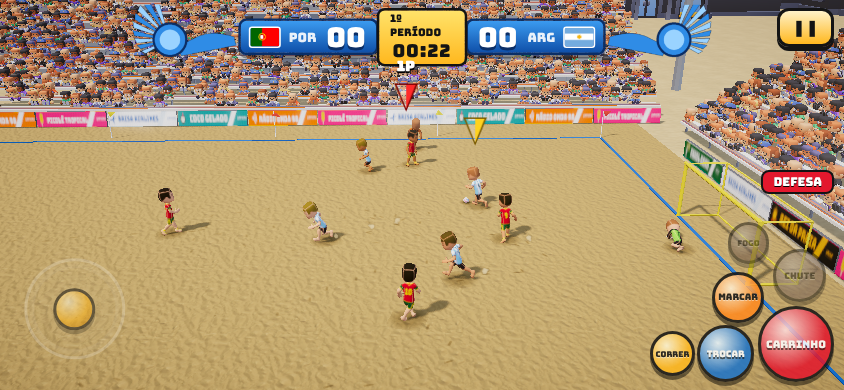
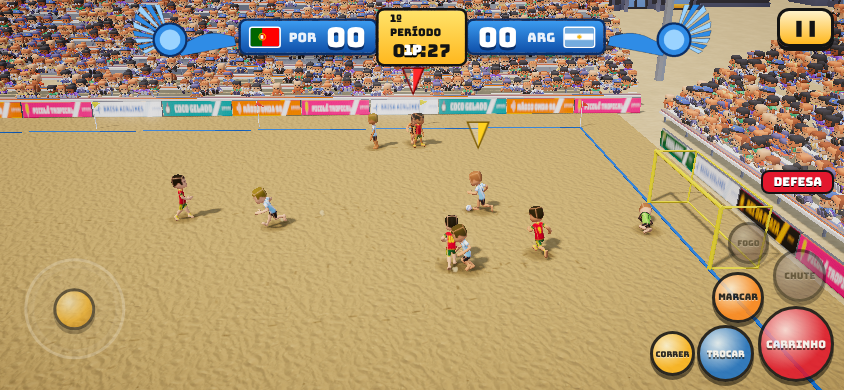
Passe no pé (estilo PES/FIFA)
- Passe rasteiro e lençol miram o pé do recebedor; a bola corrige a rota durante o trajeto
- Recebedor para e espera a bola desde o aperto do botão (não vai buscar)
- Só antecipa o passe para quem está correndo na tabela
- QA: recebedor andou 0,00 m no passe e no lençol

Claude-Session: https://claude.ai/code/session_01SZRMGLNJbngvwk127EqV8r

diff --git a/src/match/Match.ts b/src/match/Match.ts
@@ -322,18 +322,16 @@ export class Match {
     if (inSet) { p.vel.set(0, 0, 0); return; }
     const canMove = p.stun <= 0 && p.sliding <= 0 && !(p.kick && !p.kick.done) && !this.ball.held;
     let sprint = input.held(dev, 'sprint');
-    // recepção assistida: direcional solto e passe vindo para ele → vai ao encontro da bola
-    if (this.passTo === p && !hasBall && mv.lengthSq() < 0.04 && !this.ball.owner) {
-      const meet = this.ball.predict(0.35).sub(p.pos).setY(0);
-      if (meet.length() > 0.5) mv.copy(meet.normalize().multiplyScalar(0.85));
-    }
+    // recepção estilo PES/FIFA: direcional solto e passe vindo para ele → para, vira para a bola e espera no pé
+    const waiting = this.passTo === p && !hasBall && mv.lengthSq() < 0.04 && (!this.ball.owner || this.ball.owner.team === tm);
+    if (waiting) { p.vel.multiplyScalar(Math.exp(-10 * dt)); p.faceTo(this.ball.pos.clone().sub(p.pos).setY(0), dt, 10); }
     // MARCAR (toque): corre sozinho atrás da bola/adversário enquanto o botão estiver pressionado
     if (input.isDown('TouchPress') && dev === 'kb' && !hasBall && mv.lengthSq() < 0.04) {
       mv.copy(this.pressDir(p)); sprint = true;
       const c = this.ball.owner;
       if (c && c.team !== tm && c.pos.distanceTo(p.pos) < 1.15 && p.tackleCd <= 0) this.doTackle(p, false); // bote
     }
-    if (canMove) {
+    if (canMove && !waiting) {
       const max = p.maxSpeed(sprint);
       const want = mv.clone().multiplyScalar(max);
       const acc = hasBall ? 16 : 20;
@@ -425,6 +423,27 @@ export class Match {
     p.runTarget.set(THREE.MathUtils.clamp(recv.pos.x + d * 6, -FIELD.HL + 2, FIELD.HL - 2), 0, THREE.MathUtils.clamp(recv.pos.z + side * 4, -FIELD.HW + 1.5, FIELD.HW - 1.5));
     p.runT = 1.8;
   }
+  /**
+   * Passe "no pé": enquanto o passe do time está a caminho (ninguém tocou), a bola corrige a direção para o
+   * pé do recebedor — se ele se mexer, ela acompanha — e não morre no meio do caminho por causa da areia.
+   */
+  private homePass(dt: number) {
+    const r = this.passTo, b = this.ball;
+    if (!r || b.owner || b.held || b.inGoal || !r.onField || b.lastTouch?.team !== r.team) return;
+    const to = r.pos.clone().sub(b.pos).setY(0);
+    const dist = to.length();
+    if (dist < 0.3) return;
+    to.divideScalar(dist);
+    const hv = new THREE.Vector3(b.vel.x, 0, b.vel.z);
+    let hs = hv.length();
+    if (hs < 0.05) return;
+    hv.divideScalar(hs);
+    if (hv.dot(to) < -0.2) return; // já passou do recebedor
+    const k = 1 - Math.exp(-(b.airborne ? 2.5 : 7) * dt);
+    hv.lerp(to, k).normalize();
+    if (!b.airborne) hs = Math.max(hs, Math.min(5, 1.5 + dist * 1.2)); // areia não segura o passe antes de chegar
+    b.vel.x = hv.x * hs; b.vel.z = hv.z * hs;
+  }
   /** jogador que deve receber o passe em andamento (recepção assistida) */
   passTo: Player | null = null;
   /** bola aérea dominável agora pelo jogador humano (o celular pisca o botão CHUTE) */
@@ -437,6 +456,8 @@ export class Match {
     const hasIt = b.owner === p || this.sp?.taker === p || this.nearLooseBall(p);
     if (!hasIt || (p.kick && !p.kick.done)) return;
     const best = target ?? this.pickPassTarget(p, dir, lob);
+    // o recebedor já para e espera no momento em que o botão é apertado (não sai correndo durante o preparo do passe)
+    if (best && !best.isGK) { this.passTo = best; this.passT = 3.5; if (best.runT <= 0) best.vel.set(0, 0, 0); }
     const kind: KickKind = p.isGK && b.held ? 'gk_throw' : this.sp?.kind === 'throw_in' ? 'throw_in' : lob ? 'pass_lob' : 'pass_short';
     this.queueKick(p, kind, 0.5, null, best);
   }
@@ -565,7 +586,7 @@ export class Match {
       default: contact = foot;
     }
     const aerial = ['header', 'diving_header', 'bicycle_kick', 'scissor_kick', 'volley', 'chest_control'].includes(k.kind);
-    if (!owned && !reachable(aerial ? contact : p.pos.clone().setY(BALL_R).addScaledVector(p.forward, 0.5), aerial ? 1.7 : 1.4)) return; // furou
+    if (!owned && !reachable(aerial ? contact : p.pos.clone().setY(BALL_R).addScaledVector(p.forward, 0.5), aerial ? 1.7 : 1.4)) { if (this.passTo?.team === p.team) this.passTo = null; return; } // furou
     if (this.state === 'setpiece' || this.state === 'kickoff') this.resumePlay();
     b.owner = null; b.held = false;
     if (aerial) b.pos.lerp(contact, 0.6);
@@ -587,8 +608,9 @@ export class Match {
         if (k.kind === 'pass_short') {
           // areia segura muito a bola: a velocidade de saída é calculada para ela chegar viva (~5 m/s) no recebedor,
           // e o alvo é onde ele vai estar quando a bola chegar
-          let sp = rollSpeedFor(d, 5);
-          if (target) { const tArr = rollTime(sp, d); tp = target.pos.clone().addScaledVector(target.vel, Math.min(1.2, tArr * 0.8)); sp = rollSpeedFor(tp.distanceTo(b.pos), 5); }
+          // no pé: mira a posição do recebedor (ele espera a bola); só antecipa quem está correndo na tabela
+          let sp = rollSpeedFor(d, 6.5);
+          if (target && target.runT > 0) { const tArr = rollTime(sp, d); tp = target.pos.clone().addScaledVector(target.vel, Math.min(1.0, tArr * 0.8)); sp = rollSpeedFor(tp.distanceTo(b.pos), 6.5); }
           v = tp.sub(b.pos).setY(0).normalize().multiplyScalar(Math.min(sp, 24)); v.y = 0.6;
           sfx = 'kick_soft';
           if (target) { this.passTo = target; this.passT = 3; }
@@ -604,7 +626,7 @@ export class Match {
         break;
       }
       case 'pass_lob': case 'long_throw': {
-        const tp = target ? target.pos.clone().addScaledVector(target.vel, 0.9).addScaledVector(new THREE.Vector3(tm.dir, 0, 0), 1.2) : b.pos.clone().addScaledVector(p.forward, 14);
+        const tp = target ? (target.runT > 0 ? target.pos.clone().addScaledVector(target.vel, 0.9) : target.pos.clone()) : b.pos.clone().addScaledVector(p.forward, 14);
         const d = tp.distanceTo(b.pos);
         tp.y = k.kind === 'long_throw' ? 1.0 : 0.9;
         v = ballistic(b.pos, tp, 0.8 + d * 0.05);
@@ -781,6 +803,7 @@ export class Match {
     this.mini?.update(dt);
 
     if (this.passT > 0) { this.passT -= dt; if (this.passT <= 0) this.passTo = null; }
+    if (st === 'play') this.homePass(dt);
     if (st === 'play') this.autoSwitch(dt);
     // controle humano + IA
     const live = st === 'play' || st === 'kickoff' || st === 'setpiece';

diff --git a/src/match/AI.ts b/src/match/AI.ts
@@ -122,7 +122,7 @@ export function teamAI(m: Match, tm: Team, dt: number) {
       continue;
     }
     if (owner === p) { carrierAI(m, p, dt, st); continue; }
-    if (p === chaser && (!owner || owner.team !== tm)) {
+    if (p === chaser && (!owner || owner.team !== tm) && !(!owner && m.passTo && m.passTo.team === tm)) { // passe do time a caminho: ninguém corre atrás
       // pressão / disputa de bola
       const target = owner ? owner.pos.clone().addScaledVector(owner.vel, 0.3) : b.predict(0.25).setY(0);
       moveTo(p, target, dt, true);
@@ -137,8 +137,10 @@ export function teamAI(m: Match, tm: Team, dt: number) {
       if (!owner && b.airborne && b.lastTouch?.team === tm) tryAerial(m, p, st);
       continue;
     }
-    // recebendo passe: vai ao encontro da bola
-    if (!owner && b.lastTouch?.team === tm && b.speed > 2) {
+    // recebedor do passe: espera a bola no pé, de frente para ela (a bola é que vem até ele)
+    if (p === m.passTo && (!owner || owner.team === tm) && p.runT <= 0) { moveTo(p, p.pos, dt, false, b.pos.clone().sub(p.pos)); p.vel.multiplyScalar(0.85); tryAerial(m, p, st); continue; }
+    // outro companheiro perto de uma bola do time: vai ao encontro dela
+    if (!owner && b.lastTouch?.team === tm && b.speed > 2 && m.passTo !== p) {
       const tt = Math.max(0.1, Math.min(1.5, p.pos.distanceTo(b.pos) / Math.max(4, b.speed)));
       const pr = b.predict(tt);
       if (pr.distanceTo(p.pos) < 7) { moveTo(p, pr.setY(0), dt, true); tryAerial(m, p, st); continue; }

diff --git a/docs/QA.md b/docs/QA.md
@@ -1,6 +1,6 @@
 # QA ponta a ponta
 
-Executado em 2026-11-26 02:00 UTC com `node scripts/qa/run.cjs` (Chromium headless, build de produção).
+Executado em 2026-11-26 12:27 UTC com `node scripts/qa/run.cjs` (Chromium headless, build de produção).
 
 **19/19 suítes OK.** O monitor de invariantes roda a cada quadro em todas as suítes (bola/jogadores com posição válida e dentro do mundo,
 bola perto do dono, controle duplicado, time humano sem jogador, estados presos, bola morta sem ninguém ir buscar).
@@ -9,11 +9,11 @@ bola perto do dono, controle duplicado, time humano sem jogador, estados presos,
 |---|---|---|
 | menus | ✔ OK | 246s |
 | options | ✔ OK | 45s |
-| fullmatch | ✔ OK | 147s |
+| fullmatch | ✔ OK | 141s |
 | arenas | ✔ OK | 132s |
 | human | ✔ OK | 166s |
 | twoplayers | ✔ OK | 54s |
-| setpieces | ✔ OK | 68s |
+| setpieces | ✔ OK | 61s |
 | fouls | ✔ OK | 60s |
 | pausemenu | ✔ OK | 37s |
 | cup | ✔ OK | 164s |
@@ -24,8 +24,8 @@ bola perto do dono, controle duplicado, time humano sem jogador, estados presos,
 | memory | ✔ OK | 108s |
 | career | ✔ OK | 161s |
 | mobile | ✔ OK | 34s |
-| iphone | ✔ OK | 199s |
-| toques | ✔ OK | 296s |
+| iphone | ✔ OK | 178s |
+| toques | ✔ OK | 333s |
 
 ## menus
 
@@ -59,8 +59,8 @@ bola perto do dono, controle duplicado, time humano sem jogador, estados presos,
 ## fullmatch
 
 - ✔ partida de 3 períodos termina na tela de resultado
-- ✔ ciclo de estados completo (kickoff, play, replay, halftime, setpiece, periodEnd, goal, fulltime)
-- ✔ houve chutes (3,16)
+- ✔ ciclo de estados completo (play, replay, halftime, goal, kickoff, setpiece, fulltime)
+- ✔ houve chutes (17,6)
 
 ## arenas
 
@@ -69,8 +69,8 @@ bola perto do dono, controle duplicado, time humano sem jogador, estados presos,
 
 ## human
 
-- ✔ jogador humano executou ações pelo teclado (43)
-- ✔ time humano chutou a gol (3)
+- ✔ jogador humano executou ações pelo teclado (50)
+- ✔ time humano chutou a gol (5)
 - ✔ jogador controlado se movimentou
 
 ## twoplayers
@@ -179,7 +179,7 @@ bola perto do dono, controle duplicado, time humano sem jogador, estados presos,
 - ✔ todos os botões dentro da tela e com no mínimo 40 px
 - ✔ jogador controlado pela tela de toque
 - ✔ joystick move para a direita (mx=0.98)
-- ✔ multitoque: joystick + CHUTE ao mesmo tempo
+- ✔ multitoque: joystick + botão ao mesmo tempo (shoot:on)
 - ✔ soltar os dedos solta joystick e botão
 - ✔ jogador se moveu com o joystick
 - ✔ ATAQUE: PASSE/CHUTE/LENÇOL/FIRULA, sem CARRINHO ({"atk":true,"def":false,"pass":"PASSE","tackle":false,"trick":true,"lob":true,"shoot":true,"big":22.800048828125})
@@ -199,7 +199,7 @@ bola perto do dono, controle duplicado, time humano sem jogador, estados presos,
 - ✔ CHUTE segurado carrega a força (56%) e chuta
 - ✔ LENÇOL levanta a bola
 - ✔ FIRULA faz embaixadinha/chapéu
-- ✔ CORRER aumenta a velocidade (2.1 → 4.7 m/s)
+- ✔ CORRER aumenta a velocidade (2.7 → 5.1 m/s)
 - ✔ FOGO apagado com a barra vazia
 - ✔ tocar em botão apagado mostra uma dica
 - ✔ FOGO com a barra cheia ativa o Modo Fogo
@@ -209,18 +209,20 @@ bola perto do dono, controle duplicado, time humano sem jogador, estados presos,
 - ✔ DEFESA: layout aparece com o adversário na bola
 - ✔ TROCAR, MARCAR e CARRINHO grande ({"pass":"TROCAR","press":true,"tackle":76})
 - ✔ CARRINHO dá o carrinho
-- ✔ MARCAR corre sozinho até o adversário (9.3 → 7.2 m)
+- ✔ MARCAR corre sozinho até o adversário (9.3 → 6.2 m)
 - ✔ TROCAR troca o jogador controlado
 - ✔ toque entre dois botões aciona o mais próximo
 - ✔ seis toques rápidos seguidos são todos registrados
 - ✔ três dedos: joystick + CORRER + CHUTE ({"mx":1,"run":true,"shoot":true})
 - ✔ soltar todos os dedos solta tudo
+- ✔ PASSE rasteiro: chega no pé do companheiro (ele andou 0.00 m depois do passe)
+- ✔ LENÇOL: chega no pé do companheiro (ele andou 0.00 m depois do passe)
 - ✔ proteção ao dominar a bola
 - ✔ tabela: quem passou dispara para receber de volta
 - ✔ tabela: o passador corre para o espaço
 - ✔ bola aérea ao alcance: aviso CHUTE! e botão piscando
 - ✔ MARCAR colado no adversário dá o bote
 - ✔ troca automática passa o controle para quem está perto da bola
--   registro de toques: pass:on shoot:on shoot:on lob:on trick:on sprint:on fire:off hint fire:on pass:on tackle:on press:on pass:on shoot:on trick:on trick:off hint trick:off hint trick:off hint trick:off hint sprint:on shoot:on pass:on press:on
+-   registro de toques: pass:on shoot:on shoot:on lob:on trick:on sprint:on fire:off hint fire:on pass:on tackle:on press:on pass:on pass:on shoot:on trick:on trick:off hint trick:off hint trick:off hint trick:off hint sprint:on shoot:on pass:on lob:on pass:on press:on
 
 Capturas de tela das suítes em `docs/qa/`.
